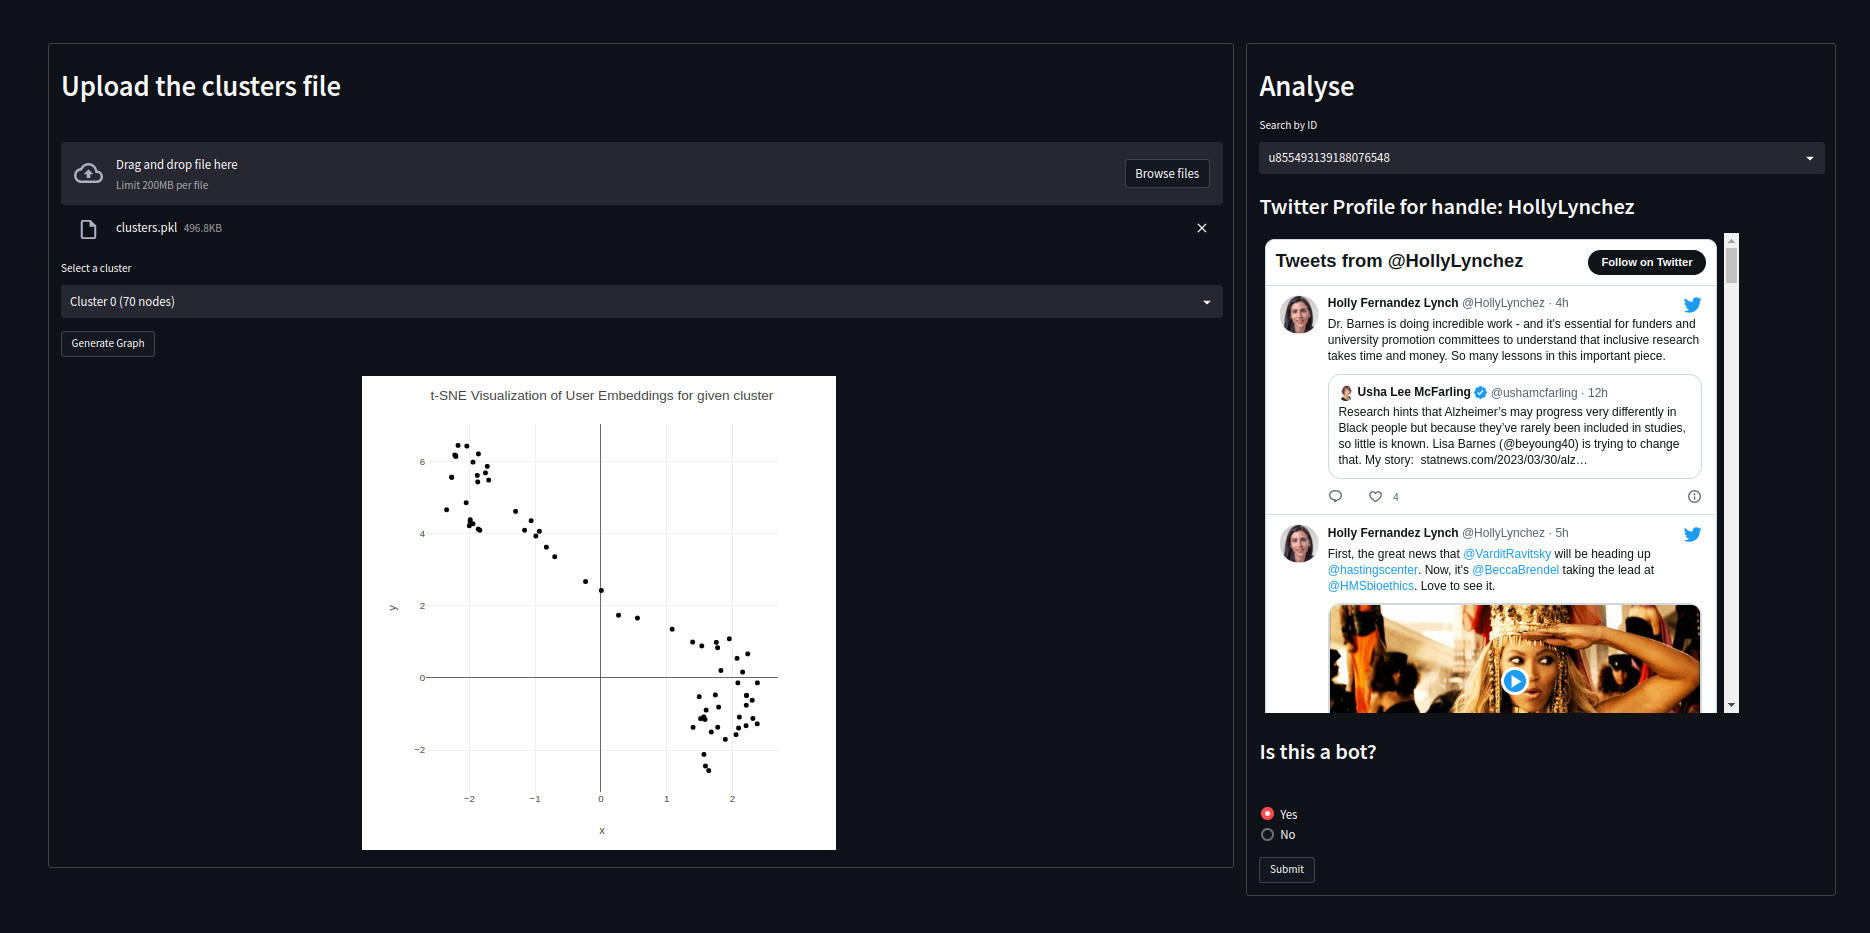
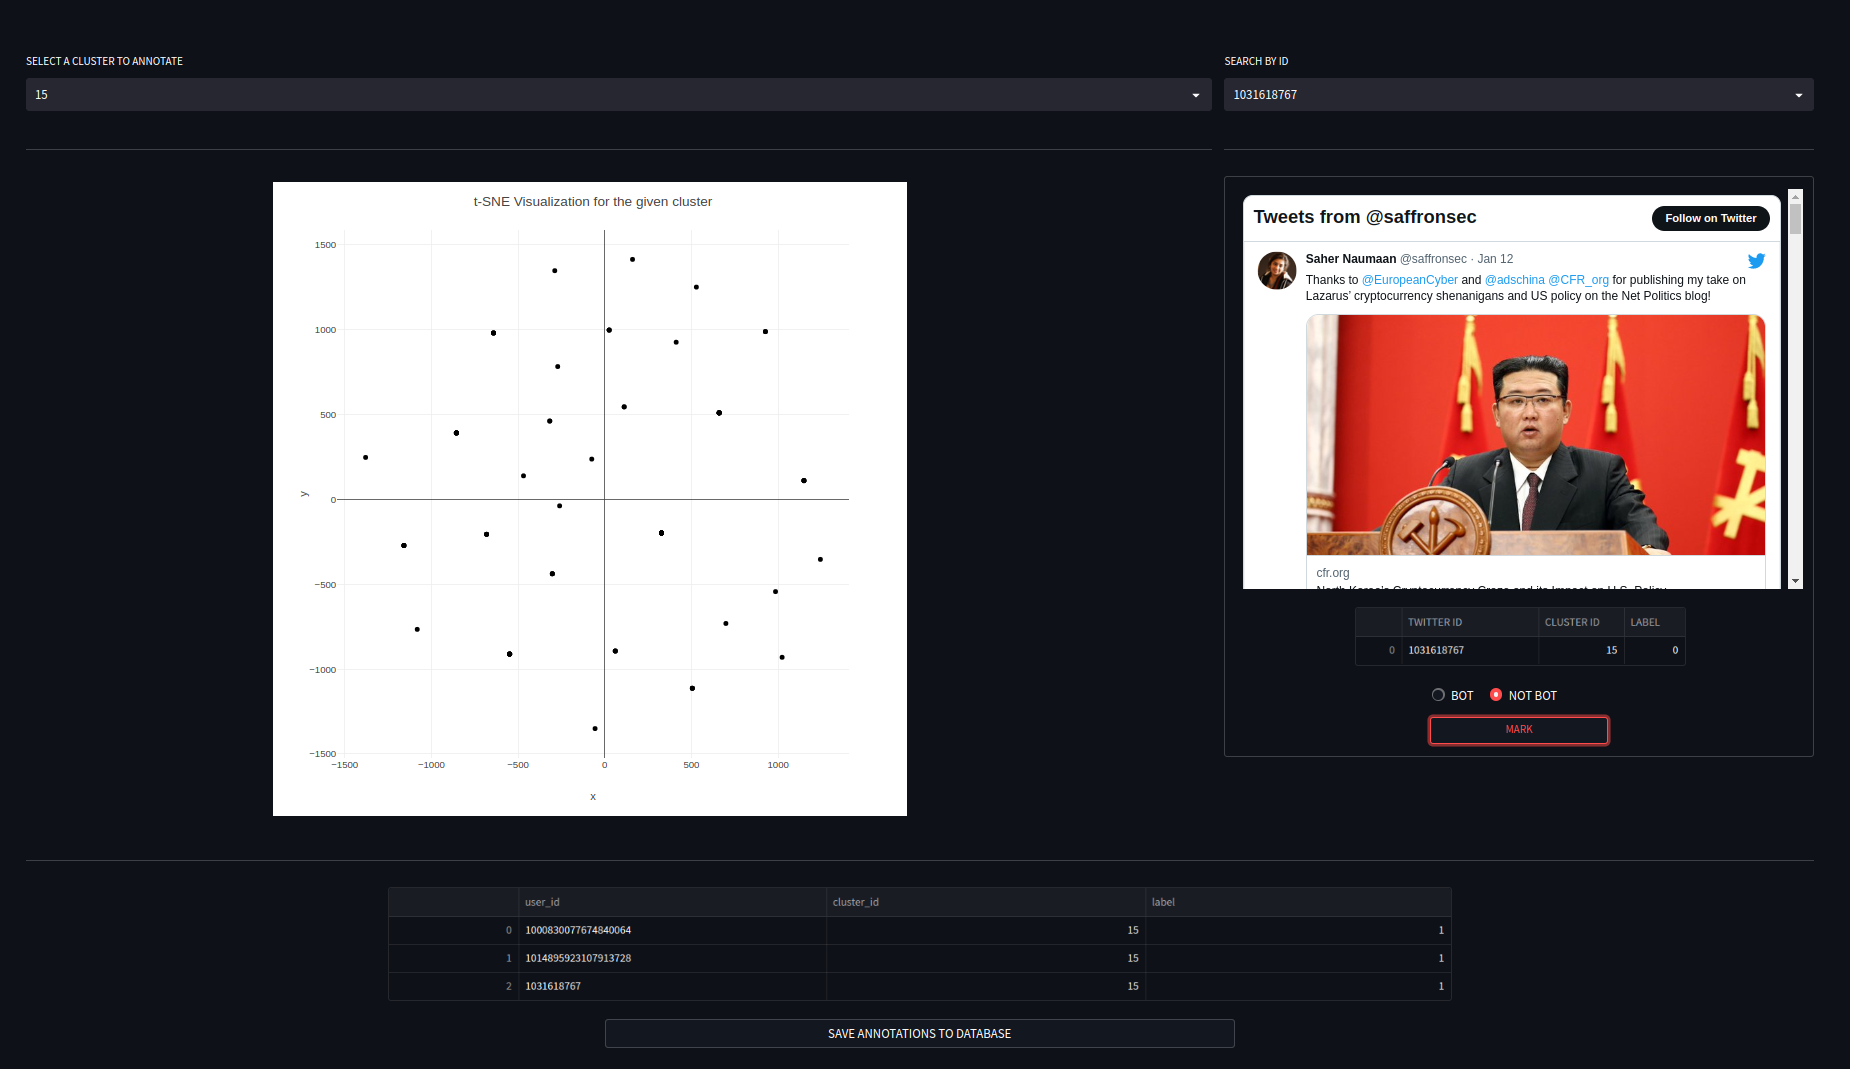
April 9 update

diff --git a/_pages/projects.md b/_pages/projects.md
@@ -36,13 +36,13 @@ MENTAL HEALTH MONITORING (2023)
 
 > ### INTERACTIVE TWITTER BOT DETECTION THROUGH NETWORK GRAPH ANALYSIS (2023)
 
-- <small> In this work, we are implementing an interactive method for detecting Twitter bots that combines network graph analysis with expert human input. We use the [Twibot-20](https://github.com/BunsenFeng/TwiBot-20) and [Twibot-22](https://github.com/LuoUndergradXJTU/TwiBot-22) datasets to train a graph embedding model and then perform hierarchical clustering on the graph embeddings to identify clusters of accounts with similar behavior. The user can then select a cluster of accounts and the system will display the accounts in the cluster along with their account characteristics. The user can then select individual accounts to view the profile and make a decision on whether the account is a bot or not. This information gets fed back to the system to improve the accuracy of the bot detection system. </small>
+- <small> In this study, we have developed an interactive approach to identify and annotate Twitter bots, which integrates natural language processing (NLP) models, network graph analysis, and expert human judgment. We employ the [Twibot-20](https://github.com/BunsenFeng/TwiBot-20) and [Twibot-22](https://github.com/LuoUndergradXJTU/TwiBot-22) datasets to train a graph embedding model, subsequently executing hierarchical clustering on the resulting graph embeddings to discern clusters of accounts exhibiting similar behavior. Simultaneously, an NLP model generates bot likelihood scores for each account based on their tweet content. </small>
 
-- <small> Here is a screenshot of the interactive bot detection system in action.  </small>
+- <small> The following illustrates our interactive bot detection system at work. Initially, the system retrieves unlabeled clusters from an SQLite database. Users can choose a cluster, upon which the system presents the accounts within the chosen cluster and their respective characteristics via a t-SNE visualization. Users can then examine individual accounts to review profiles, additional information, and our pre-calculated NLP-based bot likelihood scores. This enables users to make well-informed decisions regarding the account's bot status, with the feedback subsequently enhancing the bot detection system's precision. </small>
 
 [ ![](/assets/images/tbd.png) ](/assets/images/tbd.png)
 
-- <small> This is a work in progress. Check out the [proposal](https://github.com/womackj1/twitter-bot-detection/blob/main/docs/proposal.pdf) for more information. Our end goal is to deploy this interactive bot detection system on a web app and show that our system is more accurate and faster than existing bot detection systems. </small>
+- <small> Check out the [proposal](https://github.com/womackj1/twitter-bot-detection/blob/main/docs/proposal.pdf) for more information. Our end goal is to deploy this interactive bot detection system on a web app and show that our system is more accurate and faster than existing bot detection systems. </small>
 
 
 > ### GLUCOWISE - A DIABETES PREDICTION WEBAPP (2023)
